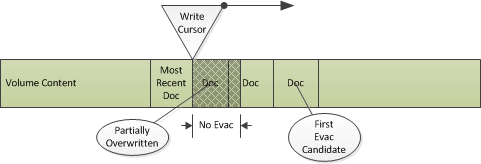
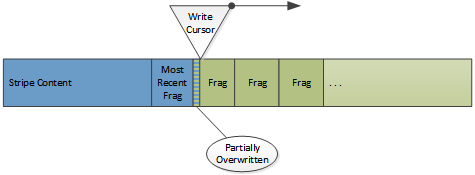
Doc: Updates to cache architecture (evacuation)

diff --git a/doc/arch/cache/cache-arch.en.rst b/doc/arch/cache/cache-arch.en.rst
@@ -83,7 +83,7 @@ Stripe Structure
 
 |TS| treats the storage associated with a cache stripe as an undifferentiated span of bytes. Internally each stripe is
 treated almost entirely independently. The data structures described in this section are duplicated for each stripe.
-Interally the term "volume" is used for these stripes and implemented primarily in :cpp:class:`Vol`. What a user thinks
+Internally the term "volume" is used for these stripes and implemented primarily in :cpp:class:`Vol`. What a user thinks
 of as a volume (what this document calls a "cache volume") is represented by :cpp:class:`CacheVol`.
 
 .. note::
@@ -107,16 +107,17 @@ Cache Directory
 Content in a stripe is tracked via a directory. We call each element of the directory a "directory entry" and each is
 represented by :cpp:class:`Dir`. Each entry refers to a chunk of contiguous storage in the cache. These are referred to
 variously as "fragments", "segments", "docs" / "documents", and a few other things. This document will use the term
-"fragment" as that is the most common reference in the code. Overall the directory is treated as a hash with a "cache
-ID" as the key. A cache ID is a 128 value generated in various ways depending on context. This key is reduced and used
-as an index in to the directory to locate an entry in the standard way.
+"fragment" as that is the most common reference in the code. The term "Doc" (for :cpp:class:`Doc`) will be used to refer
+to the header data for a fragment. Overall the directory is treated as a hash with a "cache ID" as the key. A cache ID
+is a 128 value generated in various ways depending on context. This key is reduced and used as an index in to the
+directory to locate an entry in the standard way.
 
 The directory is used as a memory resident structure which means a directory entry is as small as possible (currently 10
-bytes). This forces some compromises on the data that can be stored there. On the hand this means that most cache misses
-do not require disk I/O which has a large performance benefit.
+bytes). This forces some compromises on the data that can be stored there. On the other hand this means that most cache
+misses do not require disk I/O which has a large performance benefit.
 
 An additional point is the directory is always fully sized. Once a stripe is initialized the directory size is
-fixed and is never changed. This size is related (roughly linearly) to the size of the stripe. It is for this reason the
+fixed and never changed. This size is related (roughly linearly) to the size of the stripe. It is for this reason the
 memory footprint of |TS| depends strongly on the size of the disk cache. Because the directory size does not change,
 neither does this memory requirement so |TS| does not consume more memory as more content is stored in the cache. If
 there is enough memory to run |TS| with an empty cache there is enough to run it with a full cache.
@@ -124,9 +125,9 @@ there is enough memory to run |TS| with an empty cache there is enough to run it
 .. figure:: images/cache-directory-structure.png
    :align: center
 
-Each entry stores the cache ID as the key, along with an offset in to the stripe and a size. The size stored in the
+Each entry stores the cache ID as the key, along with an offset in the stripe and a size. The size stored in the
 directory entry is an :ref:`approximate size <dir-size>` which is at least as big as the actual data. Exact size data is
-stored in the fragment on disk.
+stored in the fragment header on disk.
 
 .. note::
 
@@ -134,19 +135,28 @@ stored in the fragment on disk.
    source of the cache ID is not stored anywhere.
 
 The entries in a directory are grouped. The first level grouping is a *bucket*. This is a fixed number (currently 4 -
-defined a ``DIR_DEPTH``) of entries. The index generated from a cache ID is used as a bucket index (not an entry index).
+defined as ``DIR_DEPTH``) of entries. The index generated from a cache ID is used as a bucket index (not an entry index).
 Buckets are grouped in to *segments*. All segments in a stripe have the same number of buckets. The number of segments
-in a stripe is chosen so that each segment has as many buckets as possible without exceeeding 65535 entries in a
-segment. Note that all segments in the same stripe will have the same number of buckets.
+in a stripe is chosen so that each segment has as many buckets as possible without exceeeding 65535 (2\ :sup:`16`\ -1)
+entries in a segment. Note that all segments in the same stripe will have the same number of buckets.
+
+.. figure:: images/dir-segment-bucket.png
+   :align: center
 
 Each entry has a previous and next index value which is used to link the entries in the same segment. The index size is
 16 bits which suffices to index any entry in the same segment. The stripe header contains an array of entry indices
-which are used as the roots of a free list. When a stripe is initialized all entries in a segment are put in the
-corresponding free list rooted in the stripe header. Entries are removed from this list when used and returned when no
-longer in use. Entries are allocated from the bucket indexed by a cache key if possible. The entries in the bucket are
-searched first and if any are on the free list, that entry is used. If none are available than the first entry on the
-segment free list is used. This entry is attached to the bucket via the same next and previous indices used for the free
-list so that it can be found when doing a lookup of a cache ID.
+which are used as the roots of a free list. When a stripe is initialized the first entry in each bucket is zeroed
+(marked unused) and all other entries are put in the corresponding segment free list rooted in the stripe header.
+
+.. figure:: images/dir-bucket-assign.png
+   :align: center
+
+Entries are removed from the free list when used and returned when no longer in use. When a fragment needs to be put in
+to the directory the cache ID is used to locate a bucket (which also determines the segment). If the first entry in the
+bucket is marked unused, it is used. If not then the other entries in the bucket are searched and if any are on the free
+list, that entry is used. If none are available then the first entry on the segment free list is used. This entry is
+attached to the bucket via the same next and previous indices used for the free list so that it can be found when doing
+a lookup of a cache ID.
 
 Storage Layout
 --------------
@@ -154,9 +164,9 @@ Storage Layout
 The storage layout is the stripe metadata followed by cached content. The metadata consists of three parts - the stripe
 header, the directory, and the stripe footer. The metadata is stored twice. The header and the footer are instances of
 :cpp:class:`VolHeaderFooter`. This is a stub structure which can have a trailing variable sized array. This array is
-used as the segment free lists in the directory. Each contains the segment index of the first element of the free list
-for the segment. The footer is a copy of the header without the segment free lists. This makes the size of the header
-dependent on the directory but not the footer.
+used as the segment free list roots in the directory. Each contains the segment index of the first element of the free
+list for the segment. The footer is a copy of the header without the segment free lists. This makes the size of the
+header dependent on the directory but not that of the footer.
 
 .. figure:: images/cache-stripe-layout.png
    :align: center
@@ -181,18 +191,15 @@ data length
 The total size of the directory (the number of entries) is computed by taking the size of the stripe and dividing by the
 average object size. The directory always consumes this amount of memory which has the effect that if cache size is
 increased so is the memory requirement for |TS|. The average object size defaults to 8000 bytes but can be configured
-using the value::
-
-   proxy.config.cache.min_average_object_size
-
-in :file:`records.config`. Increasing the average object size will reduce the memory footprint of the directory at the
-expense of reducing the number of distinct objects that can be stored in the cache [#]_.
+using :ts:cv:`proxy.config.cache.min_average_object_size`. Increasing the average object size will reduce the memory
+footprint of the directory at the expense of reducing the number of distinct objects that can be stored in the cache
+[#]_.
 
 .. index: write cursor
 .. _write-cursor:
 
 The content area stores the actual objects and is used as a circular buffer where new objects overwrite the least
-recently cached objects. The location in a volume where new cache data is written is called the *write cursor*. This
+recently cached objects. The location in a stripe where new cache data is written is called the *write cursor*. This
 means that objects can be de facto evicted from cache even if they have not expired if the data is overwritten by the
 write cursor. If an object is overwritten this is not detected at that time and the directory is not updated. Instead it
 will be noted if the object is accessed in the future and the disk read of the fragment fails.
@@ -222,7 +229,9 @@ Objects are rooted in a :cpp:class:`Doc` structure stored in the cache. :cpp:cla
 fragment and is contained at the start of every fragment. The first fragment for an object is termed the "first ``Doc``"
 and always contains the object metadata. Any operation on the object will read this fragment first. The fragment is
 located by converting the cache key for the object to a cache ID and then doing a lookup for a directory entry with that
-key. The directory entry has the offset and approximate size of the first fragment which is then read from the disk. This fragment will contain the request header and response along with overall object properties (such as content length).
+key. The directory entry has the offset and approximate size of the first fragment which is then read from the disk.
+This fragment will contain the request header and response along with overall object properties (such as content
+length).
 
 .. index:: alternate
 
@@ -230,12 +239,14 @@ key. The directory entry has the offset and approximate size of the first fragme
 are called *alternates*. All metadata for all alternates is stored in the first fragment including the set of alternates
 and the HTTP headers for them. This enables `alternate selection
 <http://trafficserver.apache.org/docs/trunk/sdk/http-hooks-and-transactions/http-alternate-selection.en.html>`_ to be
-done after the initial read from disk. An object that has more than one alternate will have the alternate content stored
-separately from the first fragment. For objects with only one alternate the content may or may not be in the same (first)
-fragment as the metadata. Each separate alternate content is allocated a directory entry and the key for that
-entry is stored in the first fragment metadata.
+done after the first ``Doc`` is read from disk. An object that has more than one alternate will have the alternate
+content stored separately from the first fragment. For objects with only one alternate the content may or may not be in
+the same (first) fragment as the metadata. Each separate alternate content is allocated a directory entry and the key
+for that entry is stored in the first fragment metadata.
 
-Prior to version 4.0.1 the header data was stored in the :cpp:class:`CacheHTTPInfoVector` class which was marshaled to a variable length area of the on disk image, followed by information about additional fragments if needed to store the object.
+Prior to version 4.0.1 the header data was stored in the :cpp:class:`CacheHTTPInfoVector` class which was marshaled to a
+variable length area of the on disk image, followed by information about additional fragments if needed to store the
+object.
 
 .. figure:: images/cache-doc-layout-3-2-0.png
    :align: center
@@ -251,16 +262,29 @@ directly incorporated in to the :cpp:class:`CacheHTTPInfoVector`, yielding a lay
 
    ``Doc`` layout 4.0.1
 
-Each element in the vector contains for each alternate, in addition to the HTTP headers and the fragment table (if any), a cache key. This cache key identifies a directory entry that is referred to as the "earliest ``Doc``". This is the location where the content for the alternate begins.
+Each element in the vector contains for each alternate, in addition to the HTTP headers and the fragment table (if any),
+a cache key. This cache key identifies a directory entry that is referred to as the "earliest ``Doc``". This is the
+location where the content for the alternate begins.
 
-When the object is first cached, it will have a single alternate and that will be stored (if not too large) in first ``Doc``. This is termed a *resident alternate* in the code. This can only happen on the initial store of the object. If the metadata is updated (such as a ``304`` response to an ``If-Modified-Since`` request) then unless the object is small, the object data will be left in the original fragment and a new fragment written as the first fragment, making the alternate non-resident. "Small" is defined as less than the value :ts:cv:`proxy.config.cache.alt_rewrite_max_size`.
+When the object is first cached, it will have a single alternate and that will be stored (if not too large) in first
+``Doc``. This is termed a *resident alternate* in the code. This can only happen on the initial store of the object. If
+the metadata is updated (such as a ``304`` response to an ``If-Modified-Since`` request) then unless the object is
+small, the object data will be left in the original fragment and a new fragment written as the first fragment, making
+the alternate non-resident. "Small" is defined as a length smaller than :ts:cv:`proxy.config.cache.alt_rewrite_max_size`.
 
 .. note::
 
    The :cpp:class:`CacheHTTPInfoVector` is stored only in the first ``Doc``. Subsequent ``Doc`` instances for the
    object, including the earliest ``Doc``, should have an ``hlen`` of zero and if not, it is ignored.
 
-Large objects are split in to multiple fragments when written to the cache. This is indicated by a total document length that is longer than the content in first ``Doc`` or an earliest ``Doc``. In such a case a fragment offset table is stored. This contains the byte offset in the object content of the first byte of content data for each fragment past the first (as the offset for the first is always zero). This allows range requests to be serviced much more efficiently for large objects, as intermediate fragments can be skipped the first fragment with relevant data loaded next after the first/earliest ``Doc``.  The last fragment in the sequence is detected by the fragment size and offset reaching the end of the total size of the object, there is no explicit end mark. Each fragment is computationally chained from the previous in that the cache key for fragment N is computed by::
+Large objects are split in to multiple fragments when written to the cache. This is indicated by a total document length
+that is longer than the content in first ``Doc`` or an earliest ``Doc``. In such a case a fragment offset table is
+stored. This contains the byte offset in the object content of the first byte of content data for each fragment past the
+first (as the offset for the first is always zero). This allows range requests to be serviced much more efficiently for
+large objects, as intermediate fragments that do not contain data in the range can be skipped. The last fragment in the
+sequence is detected by the fragment size and offset reaching the end of the total size of the object, there is no
+explicit end mark. Each fragment is computationally chained from the previous in that the cache key for fragment N is
+computed by::
 
    key_for_N_plus_one = next_key(key_for_N);
 
@@ -596,20 +620,25 @@ fragments at different locations on in the volume. Each fragment write has its o
 are computational chained (each cache key is computed from the previous one). If possible a fragment table is
 accumulated in the earliest ``Doc`` which has the offsets of the first byte for each fragment.
 
-Evacuation
-----------
+Evacuation Mechanics
+--------------------
 
 By default the write cursor will overwrite (de facto evict from cache) objects as it proceeds once it has gone around
-the volume content at least once. In some cases this is not acceptable and the object is *evacuated* by reading it from
+the cache stripe at least once. In some cases this is not acceptable and the object is *evacuated* by reading it from
 the cache and then writing it back to cache which moves the physical storage of the object from in front of the write
-cursor to behind the write cursor. Objects that are evacuated are those that are active in either a read or write
-operation, or objects that are pinned [#]_.
+cursor to behind the write cursor. Objects that are evacuated are handled in this way based on data in stripe data
+structures (attached to the :cpp:class:`Vol` instance).
 
-Evacuation starts by dividing up the volume content in to a set of regions of ``EVACUATION_BUCKET_SIZE`` bytes. The
-:cpp:member:`Vol::evacuate` member is an array with an element for each region. Each element is a doubly linked list of
-:cpp:class:`EvacuationBlock` instances. Each instance contains a :cpp:class:`Dir` that specifies the document to
-evacuate. Objects to be evacuated are descrinbed in an ``EvacuationBlock`` which is put in to an evacuation bucket based
-on the offset of the storage location.
+Evacuation data structures are defined by dividing up the volume content in to a disjoint and contiguous set of regions
+of ``EVACUATION_BUCKET_SIZE`` bytes. The :cpp:member:`Vol::evacuate` member is an array with an element for each
+evacuation region. Each element is a doubly linked list of :cpp:class:`EvacuationBlock` instances. Each instance
+contains a :cpp:class:`Dir` that specifies the fragment to evacuate. It is assumed that an evacuation block is placed in
+the evacuation bucket (array element) that corresponds to the evacuation region in which the fragment is located
+although no ordering per bucket is enforced in the linked list (this sorting is handled during evacuation). Objects are
+evacuated by specifying the first or earliest fragment in the evactuation block. The evactuation operation will then
+continue the evacuation for subsequent fragments in the object by adding those fragments in evacuation blocks. Note that
+the actual evacuation of those fragments is delayed until the write cursor reaches the fragments, it is not ncessarily
+done at the time the first / earliest fragment is evacuated.
 
 There are two types of evacuations, reader based and forced. The ``EvacuationBlock`` has a reader count to track this.
 If the reader count is zero, then it is a forced evacuation and the the target, if it exists, will be evacuated when the
@@ -617,11 +646,44 @@ write cursor gets close. If the reader value is non-zero then it is a count of e
 be able to read the object. Readers increment the count when they require read access to the object, or create the
 ``EvacuationBlock`` with a count of 1. When a reader is finished with the object it decrements the count and removes the
 ``EvacuationBlock`` if the count goes to zero. If the ``EvacuationBlock`` already exists with a count of zero, the count
-is not modified and the number of readers is not tracked, so the evacuation be valid as long as the object exists.
+is not modified and the number of readers is not tracked, so the evacuation is valid as long as the object exists.
 
-Objects are evacuated as the write cursor approaches. The volume calculates the current amount of
+Evacuation is driven by cache writes, essentially in :cpp:member:`Vol::aggWrite`. This method processes the pending
+cache virtual connections that are trying to write to the stripe. Some of these may be evacuation virtual connections.
+If so then the completion callback for that virtual connection is called as the data is put in to the aggregation
+buffer.
 
-Before doing a write, the method :cpp:func:`Vol::evac_range()` is called to start an evacuation. If an eva
+When no more cache virtual connections can be processed (due to an empty queue or the aggregation buffer filling) then
+:cpp:member:`Vol::evac_range` is called to clear the range to be overwritten plus an additional
+:ts:const:`EVACUATION_SIZE` range. The buckets covering that range are checked. If there are any items in the buckets a
+new cache virtual connection (a "doc evacuator") is created and used to read the evacuation item closest to the write
+cursor (i.e. with the smallest offset in the stripe) instead of the aggregation write proceeding. When the read
+completes it is checked for validity and if valid, the cache virtual connection for it is placed at the front of the
+write queue for the stripe and the write aggregation resumed.
+
+Before doing a write, the method :cpp:func:`Vol::evac_range()` is called to start an evacuation. If any fragments are
+found in the buckets in the range the earliest such fragment (smallest offset, closest to the write cursor) is selected
+and read from disk and the aggregation buffer write is suspended. The read is done via a cache virtual connection which
+also effectively serves as the read buffer. Once the read is complete, that cache virtual connection instance (the "doc
+evacuator") is place at the front of the stripe write queue and written out in turn. Because the fragment data is now in
+memory it is acceptable to overwrite the disk image.
+
+Note that when normal stripe writing is resumed, this same check is done again, each time evauating (if needed) a
+fragment and queuing them for writing in turn.
+
+Updates to the directory are done when the write for the evacuated fragment completes. Multi-fragment objects are
+detected after the read completes for a fragment. If it is not the first fragment then the next fragment is marked for
+evacuation (which in turn, when it is read, will pull the subsequent fragment). The logic doesn't seem to check the
+length and presumes that the end of the alternate is when the next key is not in the directory.
+
+Evacuation Operation
+--------------------
+
+The primary source of fragments to be evacuated are active fragments. That is fragments which are currently open, to be read or written. This is tracked by the reader value in the evacuation blocks noted above.
+
+If object pinning is enabled then a scan is done on a regular basis as the write cursor moves to detected pinned objects and mark them for evacuation.
+
+Fragments can also be evacuated through *hit evacuation*. This is configured by :ts:cv:`proxy.config.cache.hit_evacuate_percent` and :ts:cv:`proxy.config.cache.hit_evacuate_size_limit`. When a fragment is read it is checked to see if it is close and in front of the write cursor, close being less than the specified percent of the size of the stripe. If set at the default value of 10, then if the fragment is withing 10% of the size of the stripe it is marked for evacuation. This is cleared if the write cursor passes through the fragment while it remains open (as all open objects are evacuated). If when the object is closed the fragment is still marked then it is placed in the appropriate evacuation bucket.
 
 Initialization
 ==============
